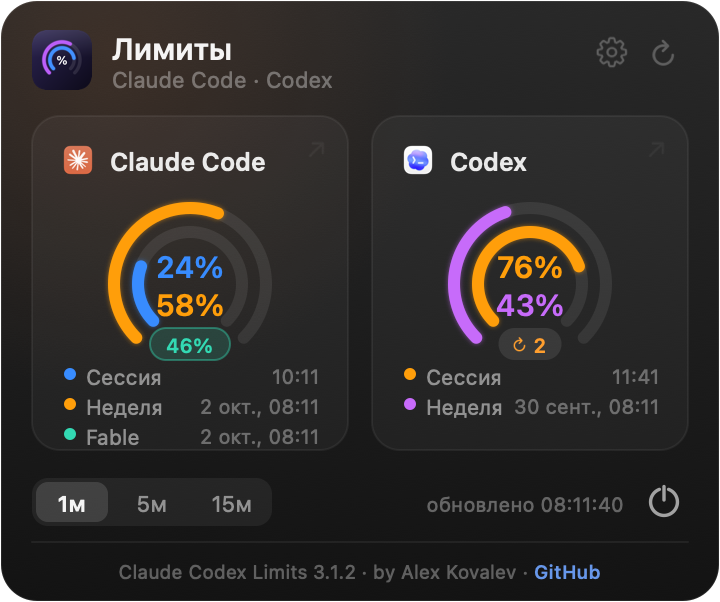
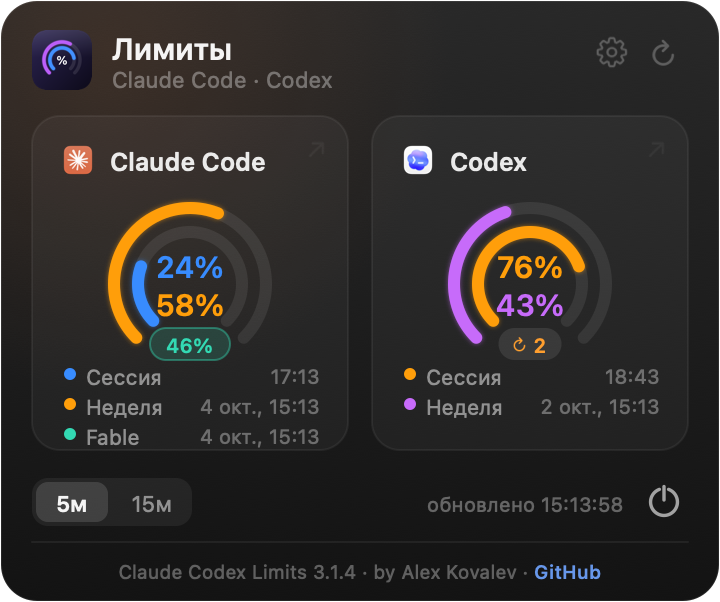
v3.1.4 — five-minute polling floor; drop the 1-minute option
At one minute, two machines on one account made ~120 calls an hour to
/api/oauth/usage and Anthropic answered 429 for hours (2026-09-30), which the
Advanced card then showed as a sign-in problem. Interval choices are now
5m | 15m (POLL_CHOICES, POLL_MIN = 300); a stored 1-minute value is lifted to
5 on launch (storedPollInterval) and setInterval refuses anything lower.
READMEs updated. Linux counterpart: #6.

diff --git a/Sources/LimitsMonitor.swift b/Sources/LimitsMonitor.swift
@@ -2411,8 +2411,18 @@ func panelMainHeight(_ claude: LimitData, _ codex: LimitData) -> CGFloat {
     PANEL_H + scopedRowExtra(claude, codex)
 }
 enum PanelMode { case main, settings, sounds, whatsnew, claudeFix }
-let APP_VERSION = "3.1.3"
+let APP_VERSION = "3.1.4"
 let APP_AUTHOR = "Alex Kovalev"
+/// How often the limits are polled. Five minutes is the floor (Alex, 2026-09-30): at one
+/// minute, two machines on one account made ~120 calls an hour to /api/oauth/usage and
+/// Anthropic answered 429 for hours. A stored 1-minute choice is lifted to 5 on launch.
+let POLL_MIN: TimeInterval = 300
+let POLL_CHOICES: [(ru: String, en: String, sec: TimeInterval)] = [("5м", "5m", 300), ("15м", "15m", 900)]
+func storedPollInterval() -> TimeInterval {
+    let d = UserDefaults.standard, v = d.double(forKey: "interval")
+    guard v >= POLL_MIN else { d.set(POLL_MIN, forKey: "interval"); return POLL_MIN }
+    return v
+}
 let REPO_URL = "https://github.com/ArrivaRUS/claude-codex-limits"
 let CLAUDE_INSTALL_CMD = "curl -fsSL https://claude.ai/install.sh | bash"
 // The installer drops the binary in ~/.local/bin but doesn't always add it to PATH
@@ -2756,9 +2766,9 @@ func drawPanel(_ ctx: CGContext, size: CGSize, claude: LimitData, codex: LimitDa
 
     // footer
     let footTop = cardsTop + cardH + 14
-    let segs: [(String, Double)] = [(tr("1м", "1m"), 60), (tr("5м", "5m"), 300), (tr("15м", "15m"), 900)]
+    let segs: [(String, Double)] = POLL_CHOICES.map { (tr($0.ru, $0.en), $0.sec) }
     let segW: CGFloat = 40, segH: CGFloat = 24
-    roundFill(rectTL(pad, footTop, segW * 3, segH), 8, gray(1, 0.06))
+    roundFill(rectTL(pad, footTop, segW * CGFloat(segs.count), segH), 8, gray(1, 0.06))
     for (i, seg) in segs.enumerated() {
         let segRect = rectTL(pad + CGFloat(i) * segW, footTop, segW, segH)
         let active = abs(interval - seg.1) < 1
@@ -3388,7 +3398,7 @@ func drawAdvanced(_ ctx: CGContext, size: CGSize, claude: LimitData, codex: Limi
 
     // ---- footer ----
     let footTop = H - 35 - ADV_CREDIT_H
-    let segs: [(String, Double)] = [(tr("1м", "1m"), 60), (tr("5м", "5m"), 300), (tr("15м", "15m"), 900)]
+    let segs: [(String, Double)] = POLL_CHOICES.map { (tr($0.ru, $0.en), $0.sec) }
     let sw = segs.map { width(attr($0.0, 12, .semibold, textHi)) + 20 }
     let segTotal = sw.reduce(0, +) + 4
     roundFill(rectTL(ADV_CX, footTop + 1, segTotal, 22), 11, gray(1, 0.07))
@@ -4155,7 +4165,7 @@ func drawClaudeFix(_ ctx: CGContext, size: CGSize, copiedCmd: String?, expired: 
 
 final class LimitsPanelView: NSView {
     var claude = LimitData(); var codex = LimitData()
-    var interval: TimeInterval = 60
+    var interval: TimeInterval = POLL_MIN
     var updated: Date?
     var hits: [Hit] = []
     var onInterval: ((TimeInterval) -> Void)?
@@ -4610,8 +4620,7 @@ final class UpdateDownloader: NSObject, URLSessionDownloadDelegate {
 final class AppDelegate: NSObject, NSApplicationDelegate {
     var statusItem: NSStatusItem!
     var timer: Timer?
-    var interval: TimeInterval = UserDefaults.standard.double(forKey: "interval") > 0
-        ? UserDefaults.standard.double(forKey: "interval") : 60
+    var interval: TimeInterval = storedPollInterval()
     var last: (LimitData, LimitData)?
     var panelCtrl: PanelController!
     var resetSound: NSSound?
@@ -5002,6 +5011,7 @@ final class AppDelegate: NSObject, NSApplicationDelegate {
     }
 
     func setInterval(_ sec: TimeInterval) {
+        let sec = max(POLL_MIN, sec)
         interval = sec
         UserDefaults.standard.set(sec, forKey: "interval")
         startTimer()
@@ -5073,7 +5083,7 @@ if CommandLine.arguments.contains("--panel-preview") {
         guard let ctx = bitmapContext(Int(PANEL_W * s), Int(ph * s)) else { return }
         ctx.scaleBy(x: s, y: s)
         _ = drawPanel(ctx, size: CGSize(width: PANEL_W, height: ph),
-                      claude: cl, codex: cx, interval: 60, updated: Date(), about: AboutState())
+                      claude: cl, codex: cx, interval: POLL_MIN, updated: Date(), about: AboutState())
         guard let img = ctx.makeImage() else { return }
         let data = NSMutableData()
         if let dest = CGImageDestinationCreateWithData(data as CFMutableData, "public.png" as CFString, 1, nil) {
@@ -6052,7 +6062,7 @@ if CommandLine.arguments.contains("--screenshots") {
         let ph = panelMainHeight(c, x)
         guard let ctx = bitmapContext(Int(PANEL_W * s2), Int(ph * s2)) else { return }
         ctx.scaleBy(x: s2, y: s2)
-        _ = drawPanel(ctx, size: CGSize(width: PANEL_W, height: ph), claude: c, codex: x, interval: 60, updated: Date(), about: about)
+        _ = drawPanel(ctx, size: CGSize(width: PANEL_W, height: ph), claude: c, codex: x, interval: POLL_MIN, updated: Date(), about: about)
         savePNG(ctx, path)
     }
     func renderSettings(_ about: AboutState, _ path: String) {

diff --git a/README.ru.md b/README.ru.md
@@ -3,7 +3,7 @@
 [English](README.md) · **Русский**
 
 <p align="center">
-  <img src="docs/banner.png?v=312" alt="Claude Codex Limits — лимиты в строке меню macOS" width="820">
+  <img src="docs/banner.png?v=314" alt="Claude Codex Limits — лимиты в строке меню macOS" width="820">
 </p>
 
 Маленькое приложение для строки меню macOS, которое показывает, сколько у вас осталось
@@ -14,9 +14,9 @@
 По клику на иконку в трее открывается подробная панель.
 
 <p align="center">
-  <img src="docs/menubar-dark.png?v=312" width="180" alt="Строка меню (тёмная)">
+  <img src="docs/menubar-dark.png?v=314" width="180" alt="Строка меню (тёмная)">
   &nbsp;&nbsp;
-  <img src="docs/panel.png?v=312" width="320" alt="Панель">
+  <img src="docs/panel.png?v=314" width="320" alt="Панель">
 </p>
 
 ## Возможности
@@ -34,7 +34,7 @@
 - **Клик по карточке** открывает страницу с лимитами в браузере.
 - **Один или оба продукта** — если настроен только Claude Code или только Codex, трей и панель сворачиваются в одну строку / одну карточку.
 - **Открытие панели тут же форсит свежее обновление.**
-- **Интервал обновления** — 1 / 5 / 15 минут на выбор.
+- **Интервал обновления** — 5 или 15 минут на выбор (5 — минимум: при более частом опросе с нескольких компьютеров одной учётки сервер начинает отказывать).
 - **Звуковые уведомления (опционально)** — весёлый перезвон при *сбросе* 5ч/недельного лимита и грустный тон при достижении **любого** лимита, включая модельный; звук выбирается отдельно для каждого события в настройках (⚙).
 - **Автоматические обновления** — проверка новых релизов в фоне (при запуске + каждые 6 ч); когда появляется новее, в трее и на шестерёнке ⚙ загорается точка. В настройках **Что нового** показывает релиз-ноуты за все пропущенные версии, а **Скачать** → живой прогресс-бар → **Установить и перезапустить** сразу ставит последнюю. Без Sparkle и нотаризации.
 - **Два языка (RU / EN)** — переключение всего интерфейса между русским и английским в настройках; релиз-ноуты тоже на выбранном языке. По умолчанию русский.
@@ -42,19 +42,19 @@
 - **Автозапуск при входе** — тумблер прямо в настройках; без иконки в Dock, без сторонних зависимостей.
 
 <p align="center">
-  <img src="docs/menubar-single.png?v=312" width="140" alt="Один продукт (строка меню)">
+  <img src="docs/menubar-single.png?v=314" width="140" alt="Один продукт (строка меню)">
   &nbsp;&nbsp;
-  <img src="docs/panel-single.png?v=312" width="300" alt="Один продукт (панель)">
+  <img src="docs/panel-single.png?v=314" width="300" alt="Один продукт (панель)">
 </p>
 <p align="center"><sub>Если настроена только одна подписка — трей и панель сворачиваются в одну строку / карточку.</sub></p>
 
-<p align="center"><img src="docs/advanced.png?v=312" width="320" alt="Расширенный режим"></p>
+<p align="center"><img src="docs/advanced.png?v=314" width="320" alt="Расширенный режим"></p>
 <p align="center"><sub>Расширенный режим: строка темпа и вердикт словами по каждому окну, 7 дней стопкой по моделям, календарь за 35 дней и сколько стоит день по подписке против цен API.</sub></p>
 
-<p align="center"><img src="docs/settings.png?v=312" width="250" alt="Экран настроек"></p>
+<p align="center"><img src="docs/settings.png?v=314" width="250" alt="Экран настроек"></p>
 <p align="center"><sub>Настройки (⚙): язык интерфейса · вид панели · автозапуск · какие два числа показывать в строке меню · подписки и синхронизация через GitHub (в расширенном виде) · звуки на отдельном экране · встроенные обновления.</sub></p>
 
-<p align="center"><img src="docs/whatsnew.png?v=312" width="320" alt="Экран «Что нового»"></p>
+<p align="center"><img src="docs/whatsnew.png?v=314" width="320" alt="Экран «Что нового»"></p>
 <p align="center"><sub>«Что нового»: релиз-ноуты за все пропущенные версии и обновление прямо оттуда.</sub></p>
 
 ## Как это работает
@@ -69,7 +69,7 @@ Anthropic `GET /api/oauth/usage`. **Это не тратит вашу квоту
 возвращают `null`, так что `limits[]` — единственный источник для них.
 
 **Codex** (OpenAI). Приложение тянет **живые** данные с того же бэкенда, что и Codex CLI —
-`GET /backend-api/wham/usage` — при каждом обновлении (запуск, таймер 1/5/15 мин и открытие
+`GET /backend-api/wham/usage` — при каждом обновлении (запуск, таймер 5/15 мин и открытие
 панели), авторизуясь локальным токеном из `~/.codex/auth.json` (с авто‑обновлением через
 токен‑эндпоинт OpenAI, когда он протух). `primary_window` — 5‑часовое окно, `secondary_window`
 — 7‑дневное. Если живой запрос не прошёл, берётся самый свежий локальный журнал сессий
@@ -151,7 +151,7 @@ cd claude-codex-limits
 - **Левый клик** по иконке в трее → открыть/закрыть панель.
 - **Клик по карточке** → открыть страницу лимитов продукта в браузере.
 - **Кнопка обновления** (вверху справа панели) → обновить сейчас.
-- **Пилюли интервала** (внизу) → 1 / 5 / 15 минут.
+- **Пилюли интервала** (внизу) → 5 / 15 минут.
 - **Кнопка выключения** (внизу справа) → выход.
 - **Правый клик** по иконке → запасное меню (Обновить / Автозапуск / Выйти).
 

diff --git a/README.md b/README.md
@@ -3,7 +3,7 @@
 **English** · [Русский](README.ru.md)
 
 <p align="center">
-  <img src="docs/banner.png?v=312" alt="Claude Codex Limits — macOS menu bar usage limits" width="820">
+  <img src="docs/banner.png?v=314" alt="Claude Codex Limits — macOS menu bar usage limits" width="820">
 </p>
 
 A tiny macOS menu-bar app that shows how much of your **Claude Code** and **Codex**
@@ -14,9 +14,9 @@ window), with the product's icon to its left — and you decide which two number
 Click the tray icon for a detailed popover.
 
 <p align="center">
-  <img src="docs/menubar-dark.png?v=312" width="180" alt="Menu bar (dark)">
+  <img src="docs/menubar-dark.png?v=314" width="180" alt="Menu bar (dark)">
   &nbsp;&nbsp;
-  <img src="docs/panel-en.png?v=312" width="320" alt="Popover">
+  <img src="docs/panel-en.png?v=314" width="320" alt="Popover">
 </p>
 
 ## Features
@@ -34,7 +34,7 @@ Click the tray icon for a detailed popover.
 - **Click a card** to open the relevant limits page in your browser.
 - **One or both** — if only Claude Code or only Codex is set up, the tray and popover collapse to a single row / single card.
 - **Opening the popover forces a fresh reading** right then.
-- **Refresh interval** — 1 / 5 / 15 minutes, your choice.
+- **Refresh interval** — 5 or 15 minutes, your choice (5 is the minimum: faster polling from several computers on one account gets rate‑limited).
 - **Sound alerts (optional)** — a cheerful chime when a 5h or weekly limit *resets*, and a sad shutdown‑style tone when **any** limit is *reached*, per‑model ones included; choose a sound per event in the in‑app settings (⚙).
 - **Automatic updates** — checks for new releases in the background (on launch + every 6 h); when one appears, a dot badges the tray icon and the ⚙ gear. In Settings, **What's new** shows the accumulated release notes for every version you skipped, and **Download** → live progress bar → **Install & Relaunch** takes you straight to the latest. No Sparkle, no notarization required.
 - **Bilingual (RU / EN)** — switch the whole interface between Russian and English in Settings; release notes load in the chosen language too. Russian by default.
@@ -42,19 +42,19 @@ Click the tray icon for a detailed popover.
 - **Launch at login** — a toggle right in Settings; no Dock icon, no dependencies beyond what macOS already ships.
 
 <p align="center">
-  <img src="docs/menubar-single.png?v=312" width="140" alt="Single product (menu bar)">
+  <img src="docs/menubar-single.png?v=314" width="140" alt="Single product (menu bar)">
   &nbsp;&nbsp;
-  <img src="docs/panel-single-en.png?v=312" width="300" alt="Single product (popover)">
+  <img src="docs/panel-single-en.png?v=314" width="300" alt="Single product (popover)">
 </p>
 <p align="center"><sub>With only one subscription set up, the tray and popover collapse to a single row / card.</sub></p>
 
-<p align="center"><img src="docs/advanced-en.png?v=312" width="320" alt="Advanced view"></p>
+<p align="center"><img src="docs/advanced-en.png?v=314" width="320" alt="Advanced view"></p>
 <p align="center"><sub>Advanced view: a pace line and a plain verdict per window, 7 days stacked by model, a 35‑day calendar, and what a day costs on the subscription vs at API prices.</sub></p>
 
-<p align="center"><img src="docs/settings-en.png?v=312" width="250" alt="Settings screen"></p>
+<p align="center"><img src="docs/settings-en.png?v=314" width="250" alt="Settings screen"></p>
 <p align="center"><sub>Settings (⚙): interface language · panel view · launch at login · which two numbers the menu bar shows · subscriptions and GitHub sync (Advanced) · sounds on their own screen · built‑in updates.</sub></p>
 
-<p align="center"><img src="docs/whatsnew-en.png?v=312" width="320" alt="What's new screen"></p>
+<p align="center"><img src="docs/whatsnew-en.png?v=314" width="320" alt="What's new screen"></p>
 <p align="center"><sub>“What’s new”: release notes for every version you skipped, then update straight from there.</sub></p>
 
 ## How it works
@@ -69,7 +69,7 @@ by `scope.model.display_name`). The older per‑model fields (`seven_day_opus` a
 now come back `null`, so `limits[]` is the only source for those.
 
 **Codex** (OpenAI). The app fetches **live** usage from the same backend the Codex CLI
-uses — `GET /backend-api/wham/usage` — on every refresh (launch, the 1/5/15‑min timer,
+uses — `GET /backend-api/wham/usage` — on every refresh (launch, the 5/15‑min timer,
 and popover open), authenticated with your local `~/.codex/auth.json` token (auto‑refreshed
 via OpenAI's token endpoint when expired). `primary_window` = 5‑hour, `secondary_window`
 = 7‑day. If a live call fails it falls back to the most recent local session log
@@ -151,7 +151,7 @@ Details: [linux/README.md](linux/README.md) (in Russian).
 - **Left‑click** the tray icon → open/close the popover.
 - **Click a card** → open that product's limits page in the browser.
 - **Refresh button** (top‑right of the popover) → refresh now.
-- **Interval pills** (bottom) → 1 / 5 / 15 minutes.
+- **Interval pills** (bottom) → 5 / 15 minutes.
 - **Power button** (bottom‑right) → quit.
 - **Right‑click** the tray icon → fallback menu (Refresh / Launch at login / Quit).
 
